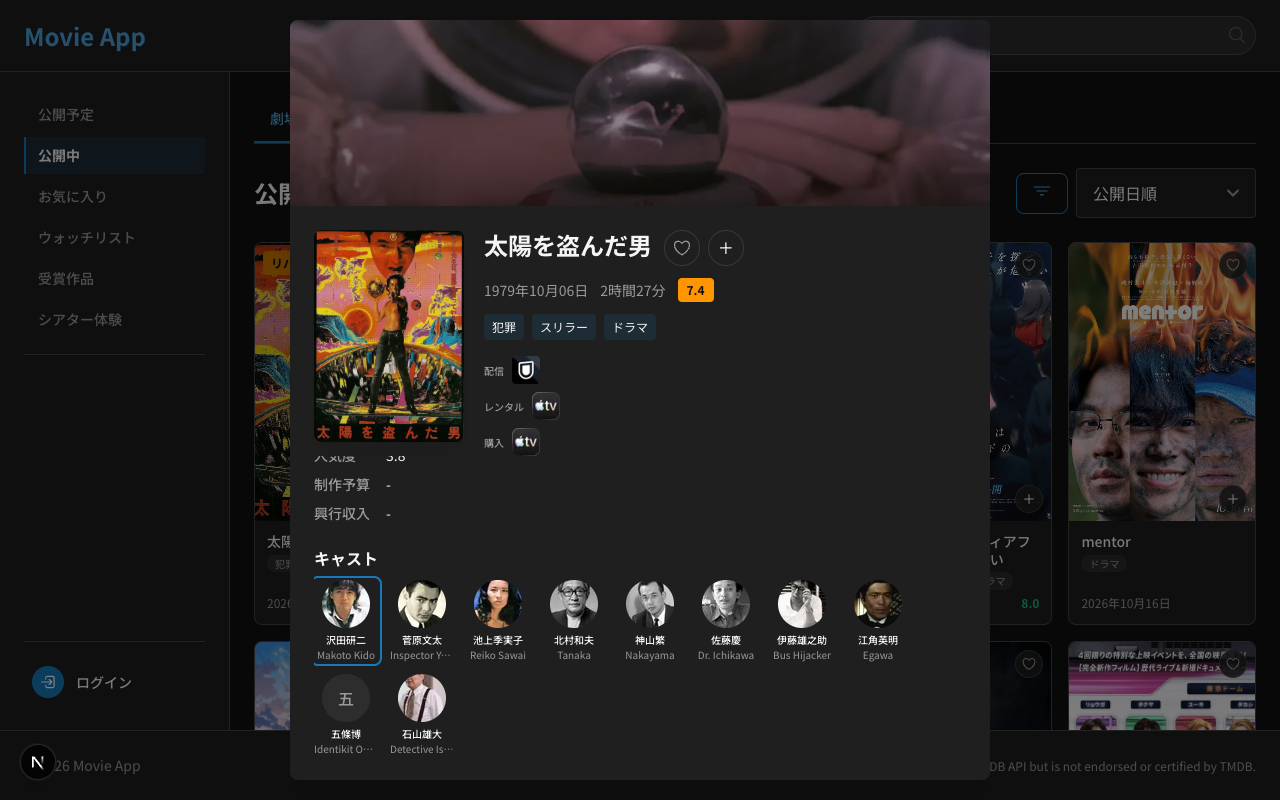
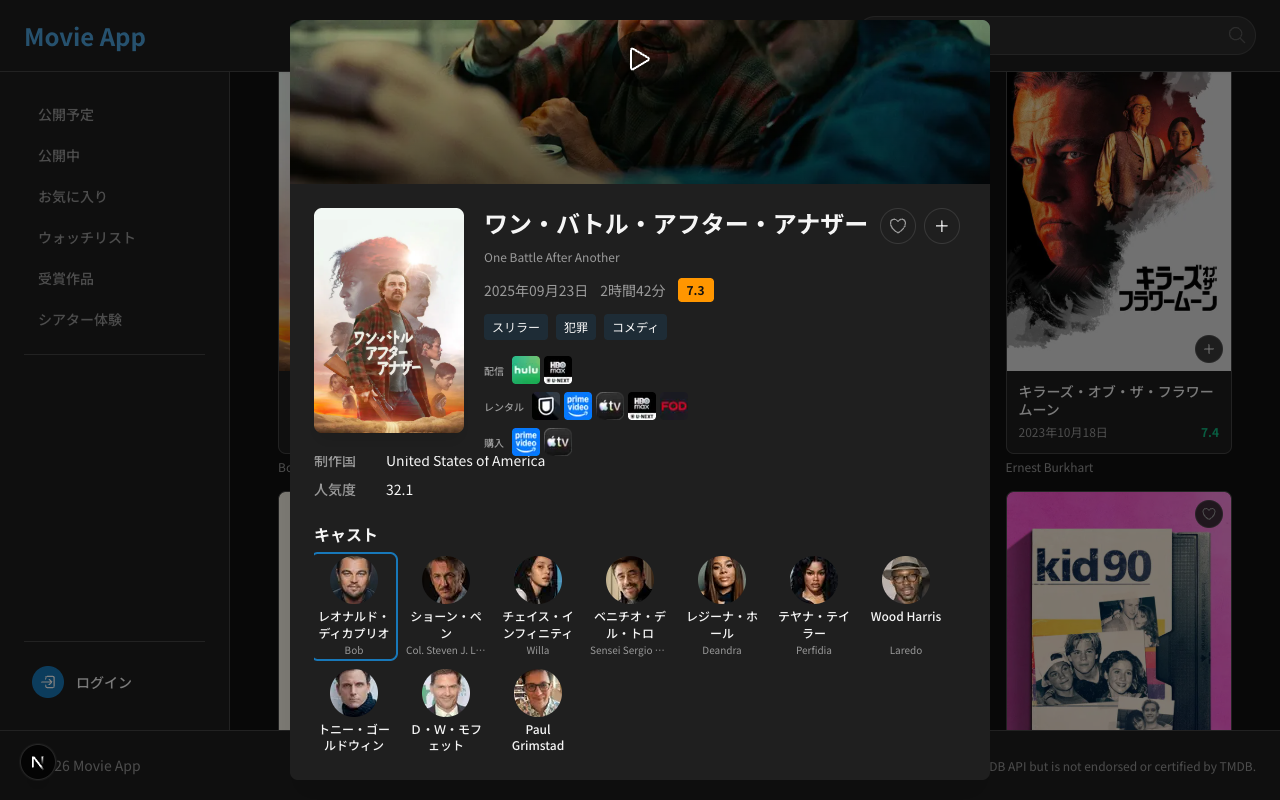
fix(movies): 詳細モーダルのキャスト名を読める大きさ・折り返しにする
キャスト名が10pxの1行固定・幅64pxで、「伊藤雄之助」程度でも「…」で
切れて誰か分からなくなっていた。カタカナ名（「レオナルド・ディカプリオ」等）は
ほぼ全てが途中で切れる状態だった。

- 俳優名を 10px → 12px にし、2行まで折り返して省略をやめる
  （空白の無い長い英単語も折り返せるよう overflow-wrap: anywhere）
- タイル幅 64px → 80px。1行あたり8〜9人から7人に減るが、
  CAST_MAX=10 なので2行で収まる点は変わらない
- 1行の名前でも2行分の高さを確保し、隣り合う役名の位置を揃える
- 役名は補足情報なので 10px の1行省略のまま据え置き
- ホバー時にグローバルの `a:hover`（下線・リンク色）が効いていたため打ち消す。
  名前と役名は本文として読ませたいので、合図は不透明度だけにする

diff --git a/src/features/movies/component/movieDetailContent/movieDetailContent.module.scss b/src/features/movies/component/movieDetailContent/movieDetailContent.module.scss
@@ -313,14 +313,20 @@
     display: flex;
     flex-direction: column;
     align-items: center;
-    width: 64px;
+    width: 80px;
     gap: $spacing-1;
     border-radius: $border-radius-md;
     color: inherit;
     text-decoration: none;
 
+    /*
+      グローバルの `a:hover` が下線とリンク色を付けるため、明示的に打ち消す。
+      名前と役名は本文として読ませたいので、ホバーの合図は不透明度だけにする
+    */
     &:hover {
       opacity: 0.8;
+      color: inherit;
+      text-decoration: none;
     }
   }
 
@@ -351,24 +357,33 @@
     width: 100%;
   }
 
+  /*
+    俳優名は2行まで折り返す。1行省略だと「伊藤雄之助」程度の長さでも
+    「…」で切れて誰か分からなくなるため。日本語は文字間で、英字は空白で
+    折り返るが、空白の無い長い英単語だけは折り返せないので
+    overflow-wrap で途中からでも折れるようにする
+  */
   &__cast_name {
-    font-size: $font-size-2xs;
+    @include text-truncate-multiline(2);
+
+    font-size: $font-size-xs;
     font-weight: $font-weight-medium;
+    line-height: 1.4;
+    /* 1行の名前でも2行分の高さを確保し、隣り合う役名の位置を揃える */
+    min-height: calc(1.4em * 2);
     color: $text-primary;
     text-align: center;
-    overflow: hidden;
-    text-overflow: ellipsis;
-    white-space: nowrap;
+    overflow-wrap: anywhere;
     width: 100%;
   }
 
+  /* 役名は補足情報なので、名前より小さいまま1行で省略する */
   &__cast_character {
+    @include text-truncate;
+
     font-size: $font-size-2xs;
     color: $text-secondary;
     text-align: center;
-    overflow: hidden;
-    text-overflow: ellipsis;
-    white-space: nowrap;
     width: 100%;
   }
 }
